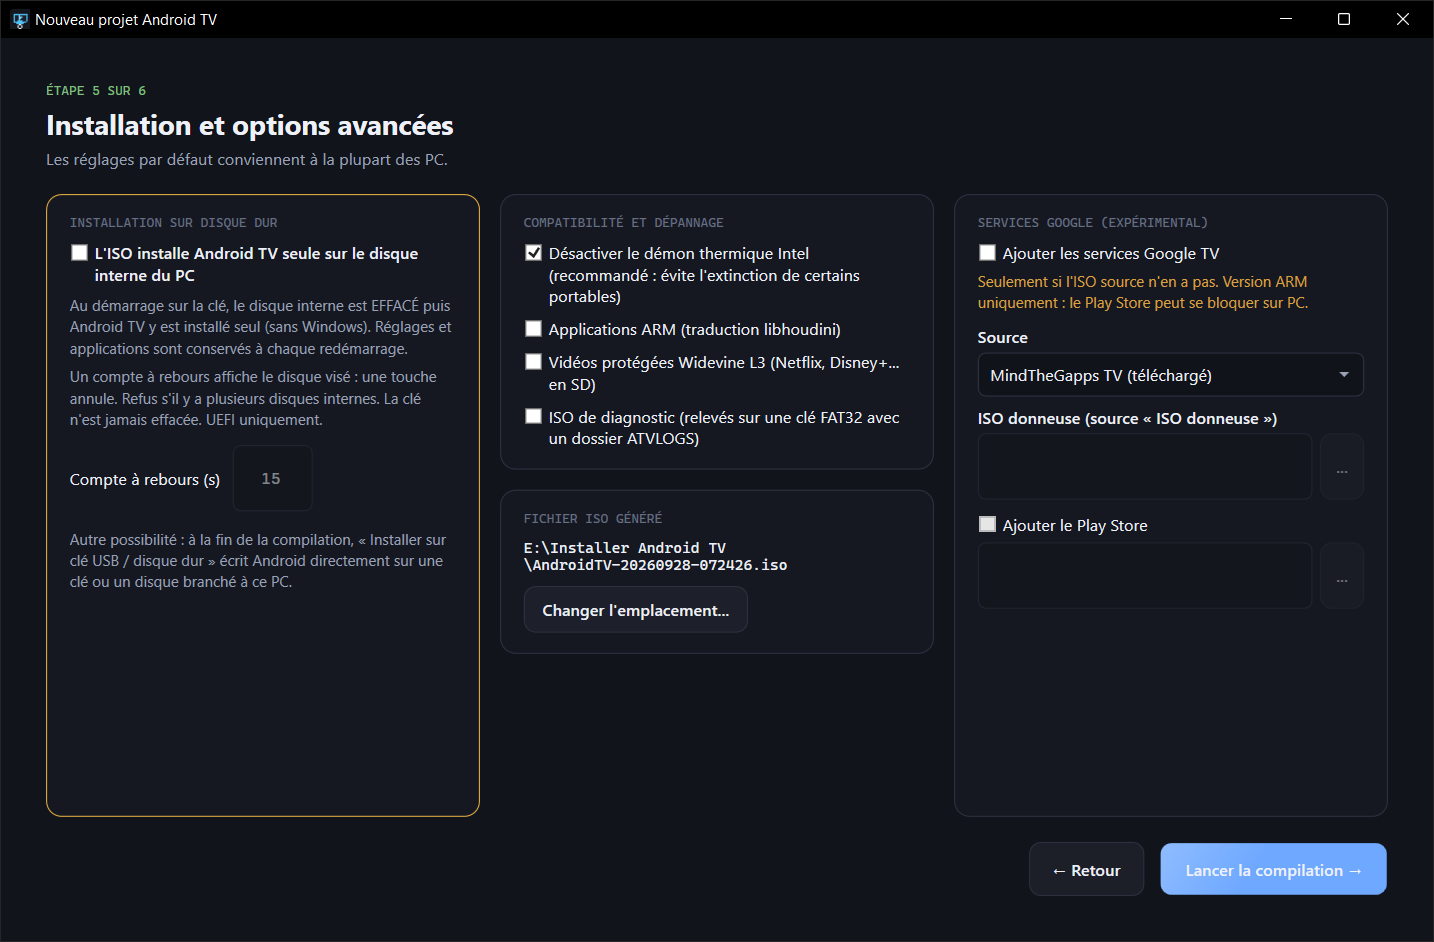
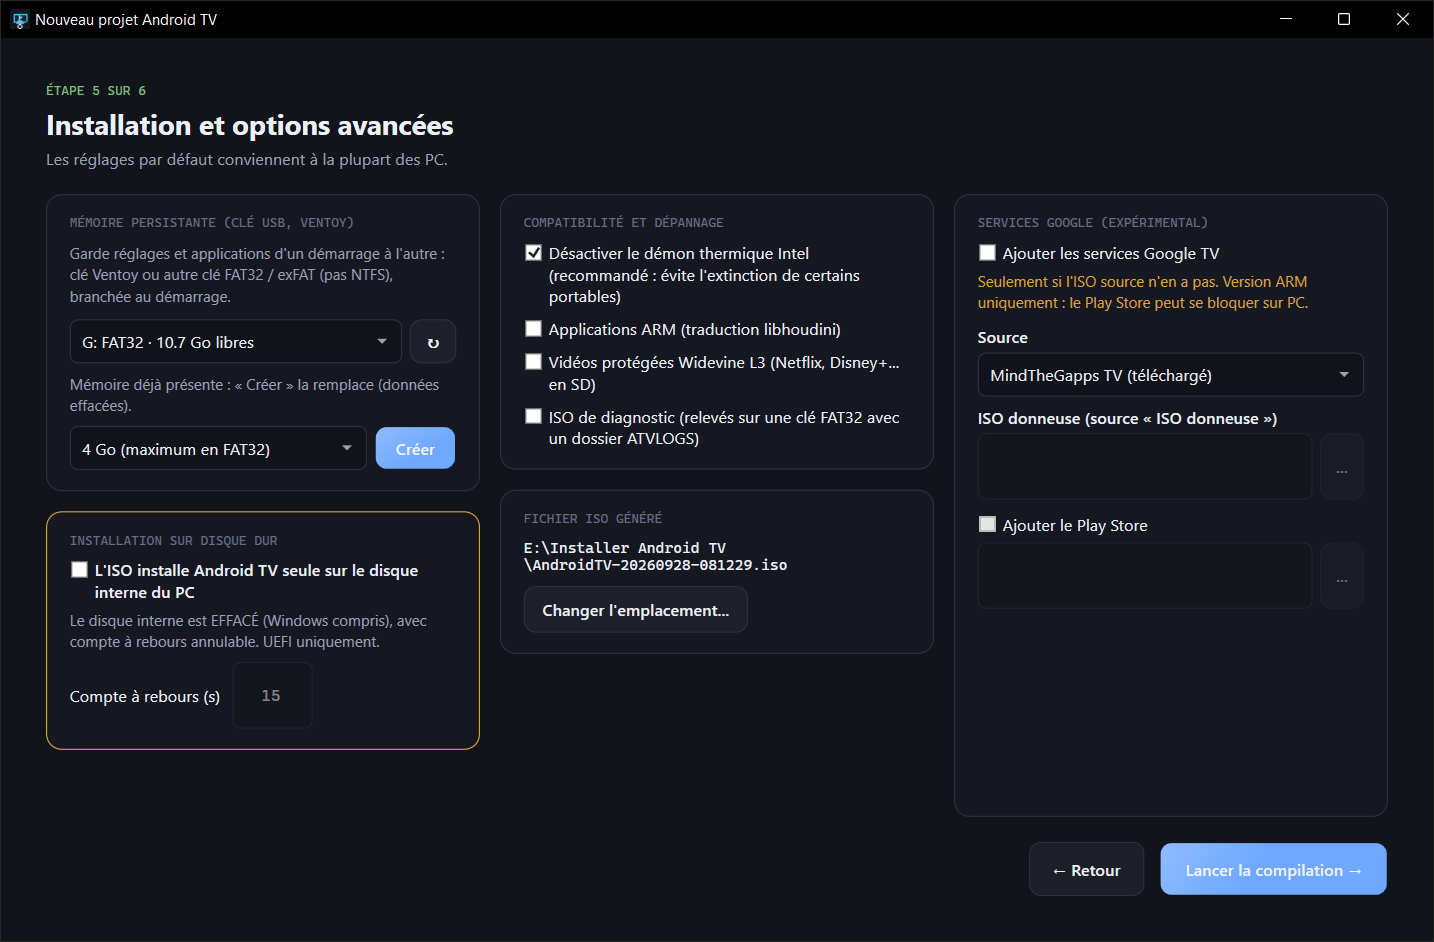
AndroidTvPcIsoBuilder 2.1.0

diff --git a/README.md b/README.md
@@ -8,7 +8,7 @@
 
 <br>
 
-[![Télécharger](https://img.shields.io/badge/⬇_Télécharger-version_2.0.0-3DDC84?style=for-the-badge)](https://github.com/lerapeurdu62280-debug/AndroidTvPcIsoBuilder-Download/releases/latest)
+[![Télécharger](https://img.shields.io/badge/⬇_Télécharger-version_2.1.0-3DDC84?style=for-the-badge)](https://github.com/lerapeurdu62280-debug/AndroidTvPcIsoBuilder-Download/releases/latest)
 [![Windows](https://img.shields.io/badge/Windows-10%20%2F%2011-0078D6?style=for-the-badge&logo=windows&logoColor=white)](#-configuration-requise)
 [![Français](https://img.shields.io/badge/interface-français-7B61FF?style=for-the-badge)](#)
 
@@ -74,7 +74,7 @@ Un vieux PC, un mini-PC ou un portable qui dort dans un placard fait un excellen
 
 ### 💾 Clé USB ou disque dur
 - **Écriture directe sur clé USB** en un clic, en fin de création.
-- **Mémoire persistante** : applications et réglages conservés à chaque redémarrage.
+- **Mémoire persistante** : applications et réglages conservés à chaque redémarrage, sur une clé écrite par le logiciel ou sur une clé USB en FAT32 / exFAT (un clic pour la préparer).
 - **Installation sur le disque dur** du PC (Android seul).
 - **Mode diagnostic** pour dépanner un PC récalcitrant.
 
@@ -110,7 +110,7 @@ Un vieux PC, un mini-PC ou un portable qui dort dans un placard fait un excellen
 <tr>
 <td width="50%" align="center">
 <img src="docs/screenshots/06-installation.png" alt="Installation"><br>
-<b>5 · Installation</b><br><sub>Clé USB, disque dur et options avancées.</sub>
+<b>5 · Installation</b><br><sub>Mémoire persistante en un clic, disque dur et options avancées.</sub>
 </td>
 <td width="50%" align="center">
 <img src="docs/screenshots/07-compilation.png" alt="Création en direct"><br>
@@ -180,7 +180,9 @@ Non, sauf si vous le demandez. Par défaut, Android TV démarre depuis la clé U
 <details>
 <summary><b>Mes applications et réglages sont-ils conservés après un redémarrage ?</b></summary>
 <br>
-Oui, sur une clé ou un disque écrits par le logiciel : la mémoire persistante est activée par défaut.
+Oui, de deux façons :
+- **clé ou disque écrits par le logiciel** (« Installer sur clé USB ») : la mémoire est incluse et activée par défaut ;
+- **ISO lancée depuis une clé Ventoy** : à l'étape 5, choisissez une clé USB en **FAT32 ou exFAT** et cliquez sur **Créer**. Laissez cette clé branchée au démarrage. Une clé en NTFS ne convient pas : Android ne sait pas y écrire.
 </details>
 
 <details>
